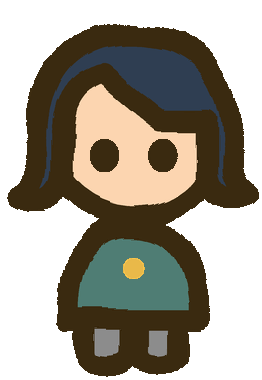
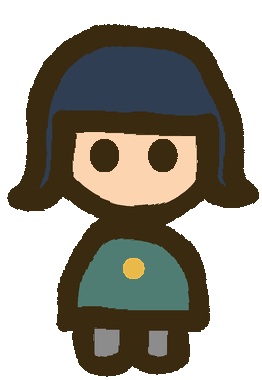
feat(art): give P.P. blunt bangs on the maps

Changed region(s): [[0.2137, 0.1447, 0.8244, 0.3763], [0.1832, 0.2895, 0.2137, 0.3184]]

diff --git a/build/maps/draw_buddies.py b/build/maps/draw_buddies.py
@@ -89,11 +89,11 @@ BUDDIES = {
          'fill': 'p_fur'},
         {'d': 'M5.2 29C7 23.5 12.5 19.5 20 19.5C27.5 19.5 33 23.5 34.8 29C27 26.5 13 26.5 5.2 29Z', 'fill': 'p_cap'},
     ] + [{'d': ell(cx, 33.5, 1.1, 1.1), 'fill': 'ink', 'wobble': False} for cx in (15, 25)],
-    # P.P. Straight-cut bangs over one half of the forehead, hair ends flicking
-    # outward at the jaw, one button.
+    # P.P. Blunt bangs cut straight across the whole forehead, just above the
+    # eyes, hair ends flicking outward at the jaw, one button.
     'pp': figure('pp_legs', 'pp_coat', 'skin', coat='M11 45.5C11 37 14 32.5 20 32.5C26 32.5 29 37 29 45.5Z', extra_front=[
         {'d': 'M4.5 28.5C6.5 27.5 7 26 6.8 23C6 13 11 6.5 20 6.5C29 6.5 34 13 33.2 23C33 26 33.5 27.5 35.5 28.5'
-              'C32.5 30 30 28.5 29.8 25.5L29.8 18H23.5C20.5 16 18 13.5 16 12C12 13 10.2 16 10.2 20L10.2 25.5'
+              'C32.5 30 30 28.5 29.8 25.5L29.8 18.5H10.2L10.2 25.5'
               'C10 28.5 7.5 30 4.5 28.5Z',
          'fill': 'pp_hair'},
         {'d': ell(20, 38.5, 1.5, 1.5), 'fill': 'sun', 'line': False, 'wobble': False},
